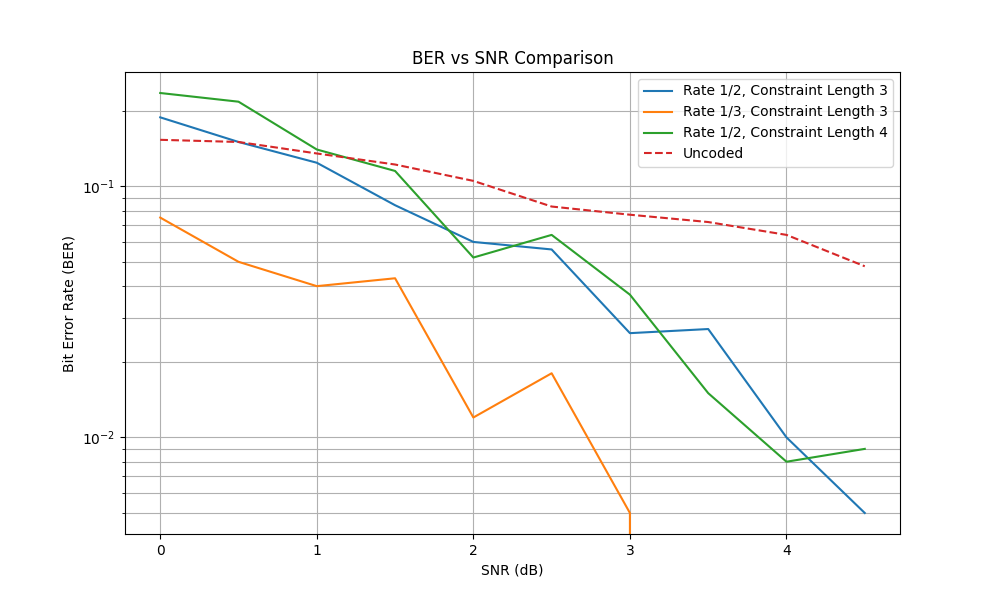
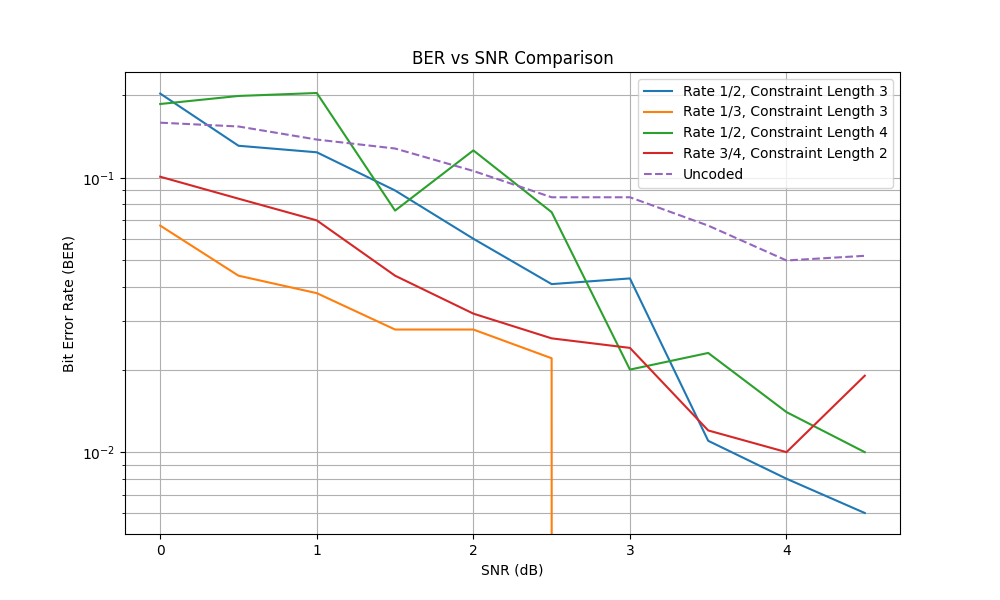
added more plots and tidied up

diff --git a/ConvolutionalCodeSim.py b/ConvolutionalCodeSim.py
@@ -107,7 +107,7 @@ def main():
 
 
     #plots BER vs SNR    
-    SNRs = np.arange(0, 20, 2)
+    SNRs = np.arange(0, 5, 0.5)
     
     polynomial_sets = {'Rate 1/2, Constraint Length 3': ['111', '101'],  # Two polynomials of length 3
     'Rate 1/3, Constraint Length 3': ['111', '101', '110'],  # Three polynomials of length 3
